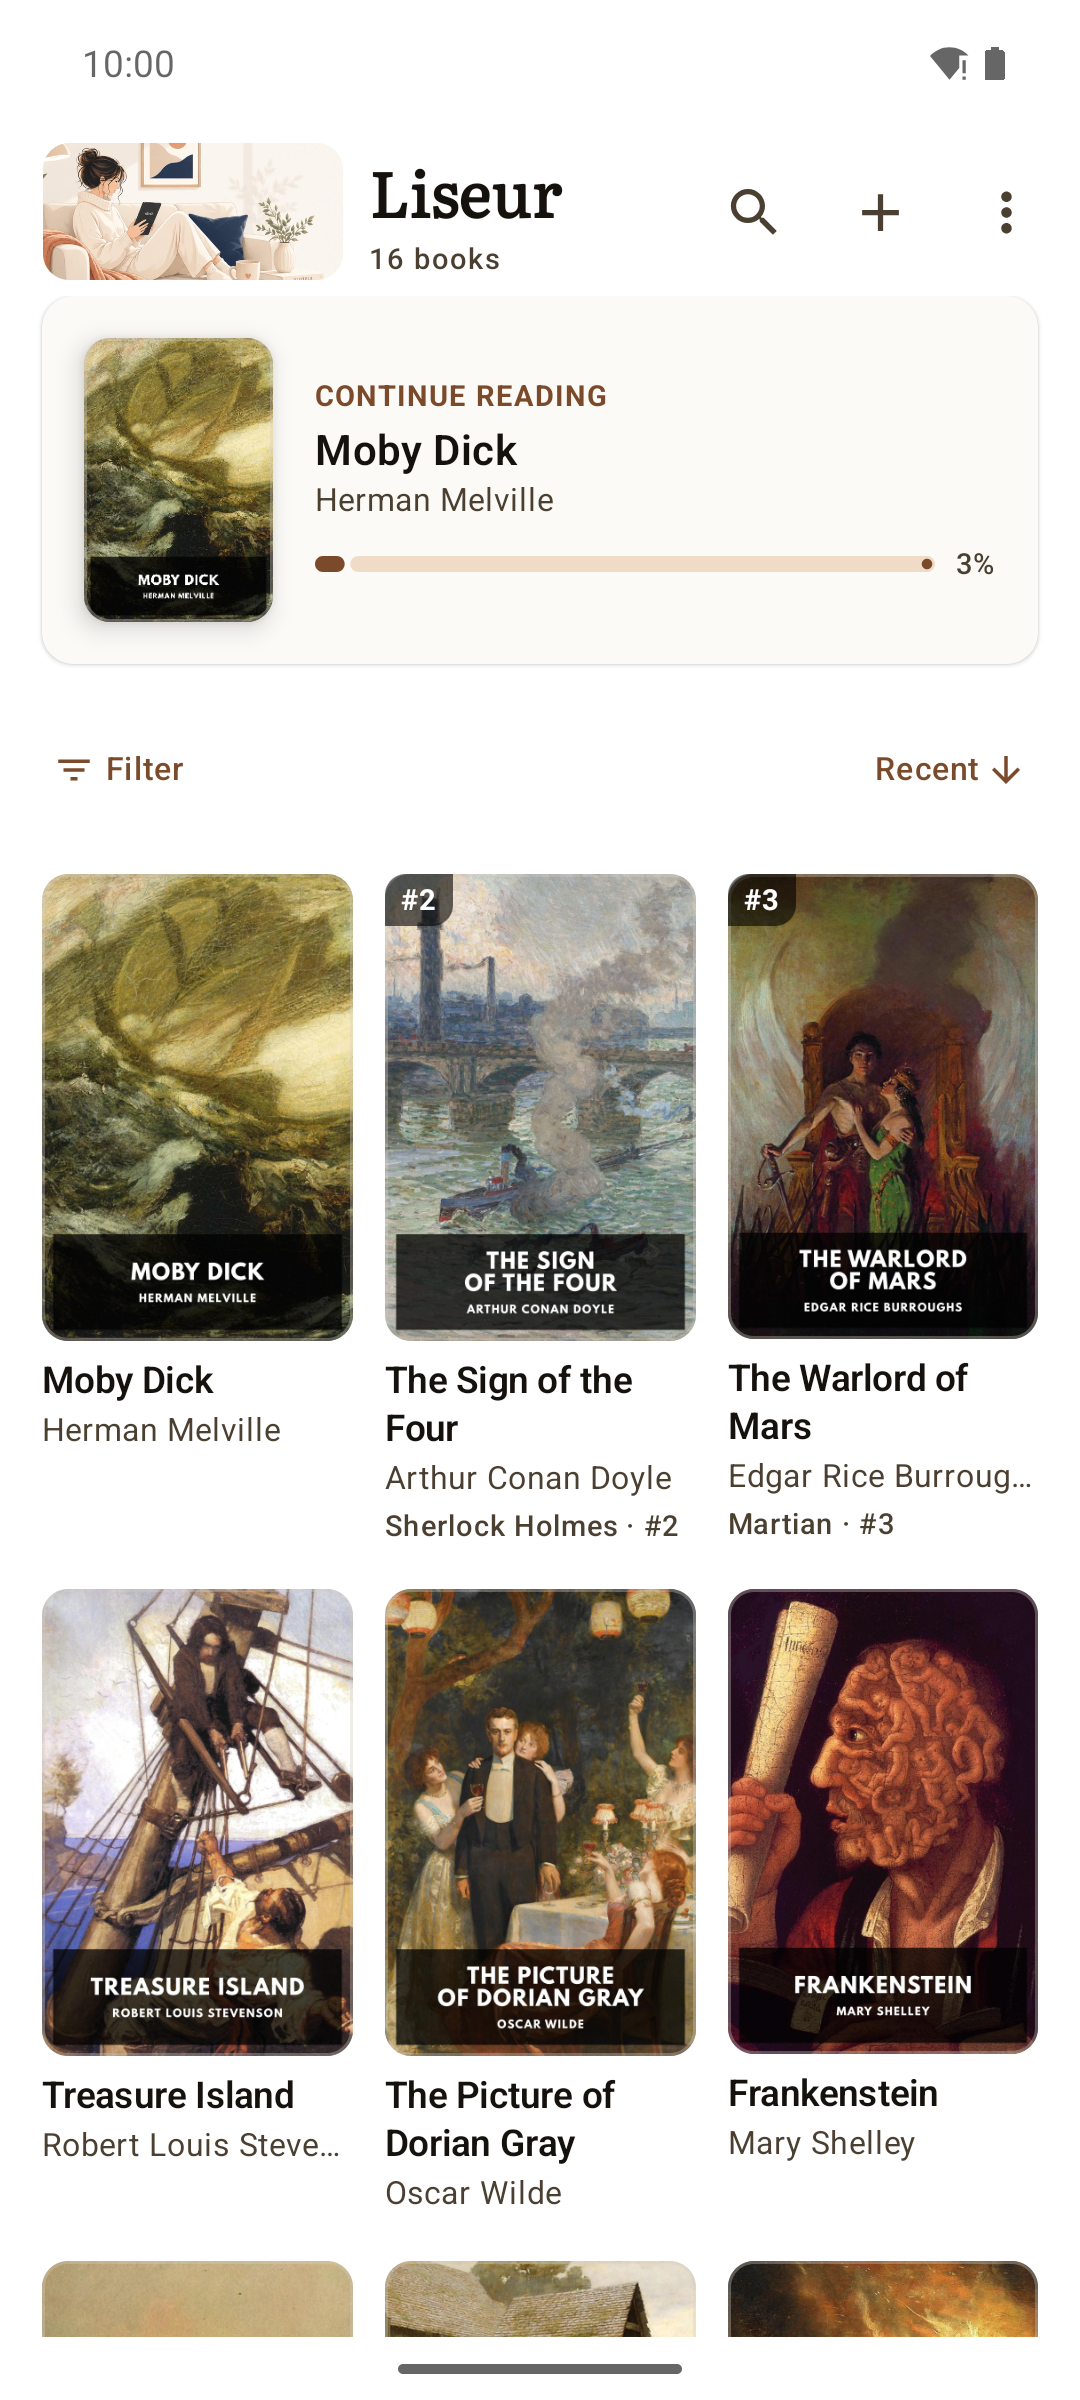
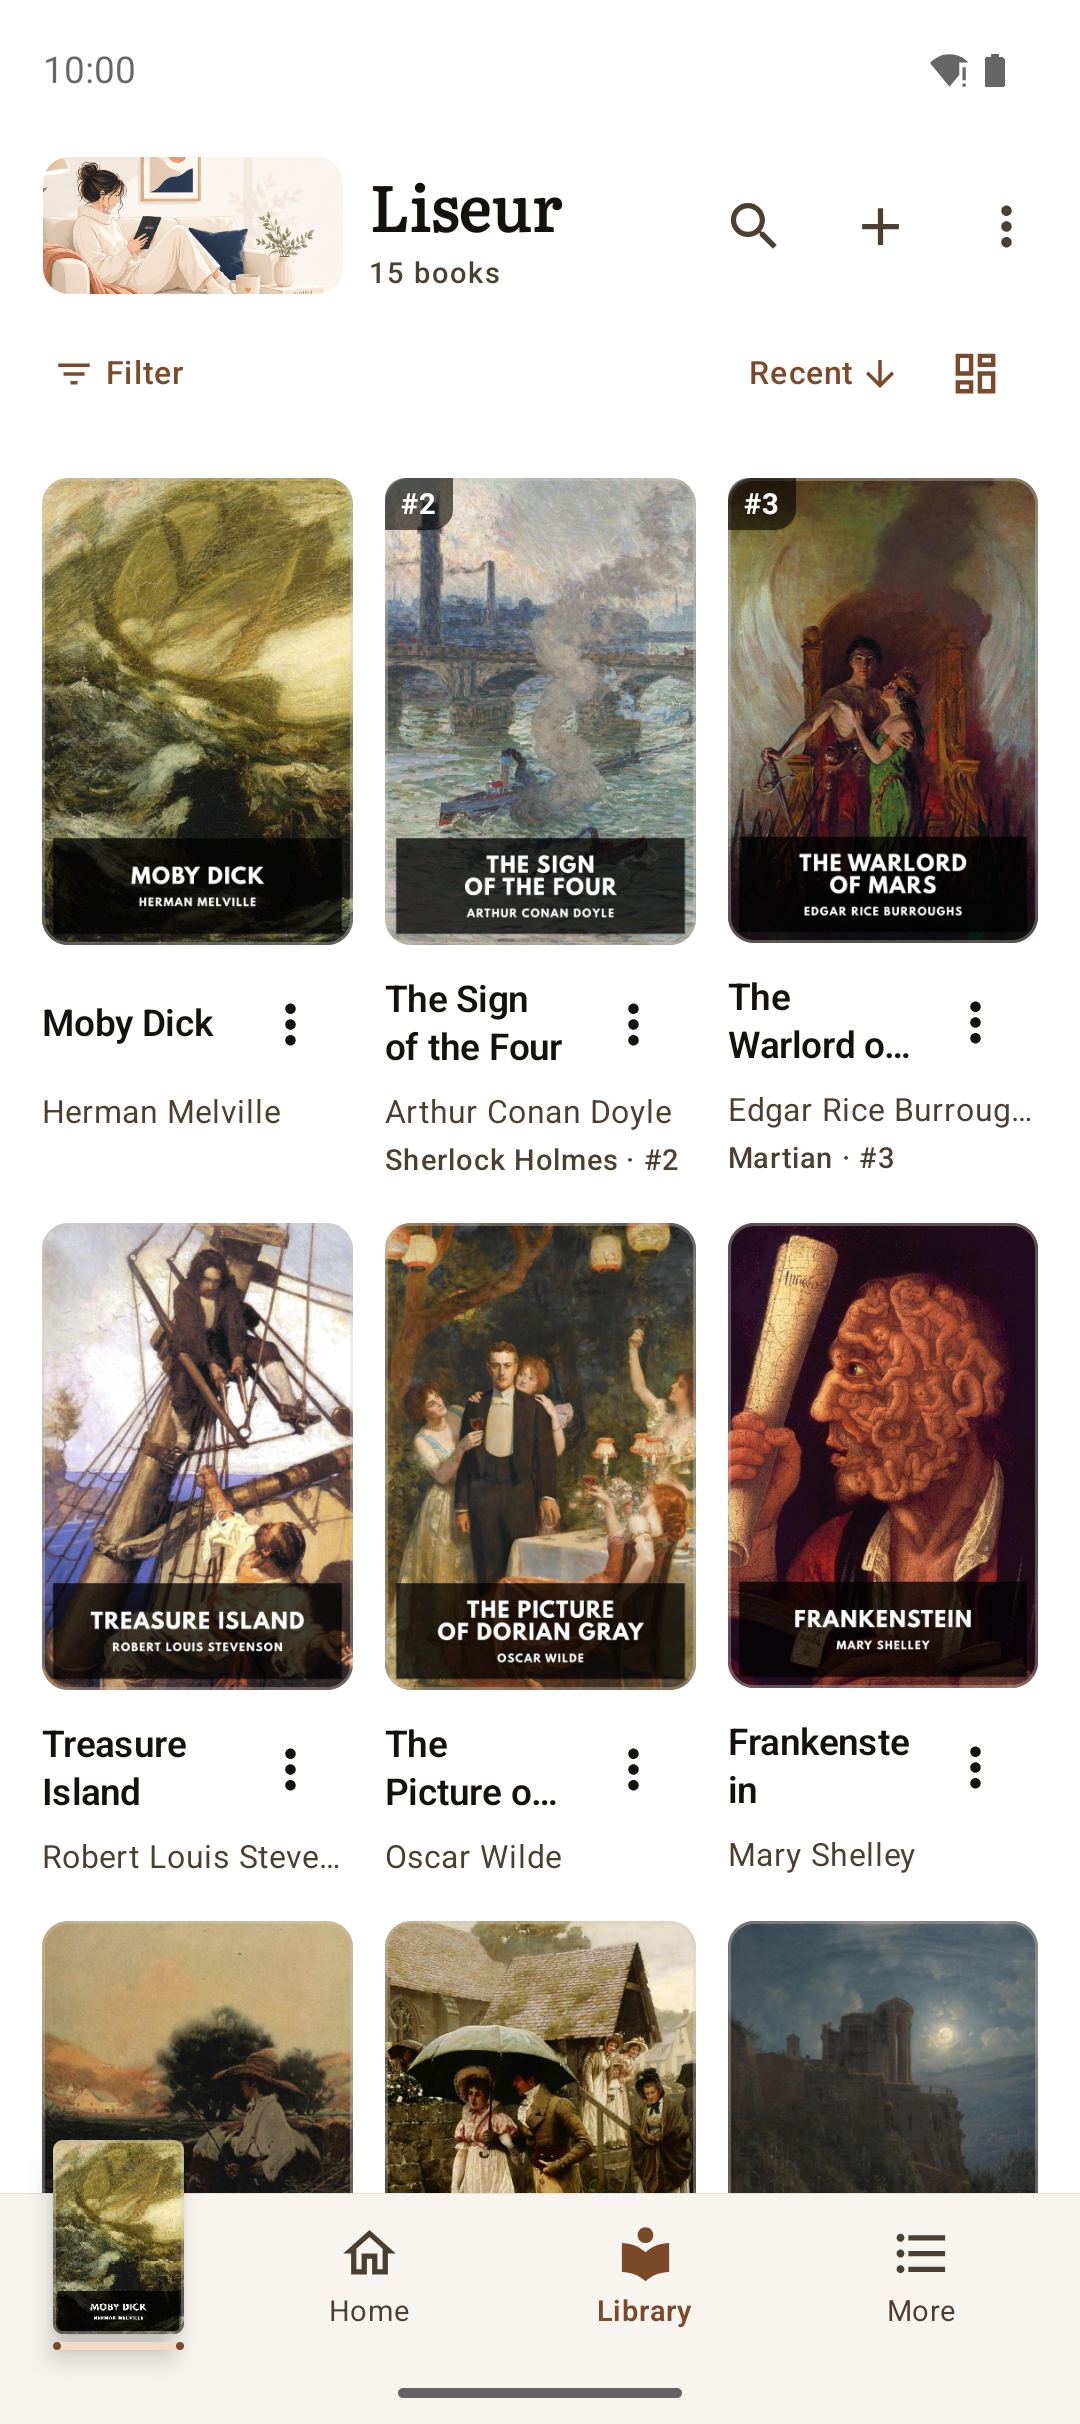
refactor: Make library bottom bar always enabled by default
Removed the upgrade migration logic for the library bottom bar and
configured it to be enabled by default for all users. Also updated the
device automation helper script to scroll and locate switches reliably
within settings menus.

diff --git a/app/src/main/kotlin/com/chmouel/liseur/data/settings/AppSettings.kt b/app/src/main/kotlin/com/chmouel/liseur/data/settings/AppSettings.kt
@@ -1,7 +1,6 @@
 package com.chmouel.liseur.data.settings
 
 import android.content.Context
-import androidx.datastore.core.DataMigration
 import androidx.datastore.core.DataStore
 import androidx.datastore.preferences.core.MutablePreferences
 import androidx.datastore.preferences.core.Preferences
@@ -481,31 +480,8 @@ enum class CompanionDetail(val id: String) {
 
 private val Context.appSettingsStore: DataStore<Preferences> by preferencesDataStore(
     name = "app_settings",
-    produceMigrations = { context ->
-        listOf(
-            LegacySpeechServerMigration(serverNamer(context)),
-            LibraryBottomBarUpgradeMigration { context.getDatabasePath("liseur.db").exists() },
-        )
-    },
+    produceMigrations = { context -> listOf(LegacySpeechServerMigration(serverNamer(context))) },
 )
-
-/**
- * Keeps the top hero card on an existing install when upgrading to a
- * build that turns the bottom bar on by default for new installs.
- */
-internal class LibraryBottomBarUpgradeMigration(
-    private val hasExistingLibrary: () -> Boolean = { false },
-) : DataMigration<Preferences> {
-    private val key = booleanPreferencesKey("library_bottom_bar")
-
-    override suspend fun shouldMigrate(currentData: Preferences): Boolean =
-        key !in currentData && (currentData.asMap().isNotEmpty() || hasExistingLibrary())
-
-    override suspend fun migrate(currentData: Preferences): Preferences =
-        currentData.toMutablePreferences().also { it[key] = false }.toPreferences()
-
-    override suspend fun cleanUp() = Unit
-}
 
 /** A new server's name: the hosted service it is on, or its host. */
 internal fun serverNamer(context: Context): (String) -> String = { url ->
@@ -658,8 +634,7 @@ class AppSettingsRepository(
                 shelfBackdropUri = p[Keys.LIBRARY_SHELF_BACKDROP_URI],
                 shelfTone = ShelfTone.fromId(p[Keys.LIBRARY_SHELF_TONE]),
                 compactList = p[Keys.LIBRARY_COMPACT_LIST] ?: false,
-                bottomBar = p[Keys.LIBRARY_BOTTOM_BAR]
-                    ?: (p.asMap().keys.none { it != Keys.LIBRARY_BOTTOM_BAR }),
+                bottomBar = p[Keys.LIBRARY_BOTTOM_BAR] ?: true,
             ),
             eInkMode = EInkMode.fromId(p[Keys.EINK_MODE]),
             colorEInk = p[Keys.COLOR_EINK] ?: false,

diff --git a/app/src/test/kotlin/com/chmouel/liseur/data/settings/AppSettingsRepositoryTest.kt b/app/src/test/kotlin/com/chmouel/liseur/data/settings/AppSettingsRepositoryTest.kt
@@ -5,6 +5,7 @@ import androidx.datastore.preferences.core.booleanPreferencesKey
 import androidx.datastore.preferences.core.edit
 import androidx.datastore.preferences.core.intPreferencesKey
 import androidx.datastore.preferences.core.stringPreferencesKey
+import com.chmouel.liseur.domain.LibraryLayout
 import com.chmouel.liseur.reader.dictionary.ALT_LANGUAGE_OFF
 import com.chmouel.liseur.reader.annotations.SelectionAction
 import com.chmouel.liseur.reader.annotations.SelectionActionIcon
@@ -338,36 +339,15 @@ class AppSettingsRepositoryTest {
     }
 
     @Test
-    fun `bottom bar is on by default on a fresh install`() = runTest {
+    fun `bottom bar is on by default`() = runTest {
         val store = store()
-        val migration = LibraryBottomBarUpgradeMigration { false }
-        assertFalse(migration.shouldMigrate(store.data.first()))
-
         val repo = AppSettingsRepository(store)
         assertTrue(repo.settings.first().libraryLayout.bottomBar)
-    }
 
-    @Test
-    fun `bottom bar stays off when upgrading an existing install`() = runTest {
-        val store = store()
         store.edit { it[stringPreferencesKey("theme_mode")] = "DARK" }
+        assertTrue(repo.settings.first().libraryLayout.bottomBar)
 
-        val migration = LibraryBottomBarUpgradeMigration { false }
-        assertTrue(migration.shouldMigrate(store.data.first()))
-        store.updateData { migration.migrate(it) }
-
-        val repo = AppSettingsRepository(store)
-        assertFalse(repo.settings.first().libraryLayout.bottomBar)
-    }
-
-    @Test
-    fun `bottom bar stays off when upgrading an install that already had a library database`() = runTest {
-        val store = store()
-        val migration = LibraryBottomBarUpgradeMigration { true }
-        assertTrue(migration.shouldMigrate(store.data.first()))
-        store.updateData { migration.migrate(it) }
-
-        val repo = AppSettingsRepository(store)
+        repo.setLibraryLayout(LibraryLayout(bottomBar = false))
         assertFalse(repo.settings.first().libraryLayout.bottomBar)
     }
 }

diff --git a/docs/adr/0070-library-styles-are-fixed-layouts.md b/docs/adr/0070-library-styles-are-fixed-layouts.md
@@ -24,11 +24,10 @@ Shelves and List.
 Each is a fixed layout with at most a few options of its own:
 any style can choose between a top card for the current book and a
 bottom bar with the current book's cover on the left and Home, Library
-and More tabs beside it (the bottom bar is the default on new installs,
-and upgrades keep the top card unless changed); Shelves chooses series,
-author or reading state for its shelves, a shelf colour (theme accent,
-stone, oak, walnut or brass) and a backdrop behind them (plain, wood,
-plaster, bricks or a custom image); and List can use compact rows.
+and More tabs beside it (the bottom bar is the default); Shelves chooses
+series, author or reading state for its shelves, a shelf colour (theme
+accent, stone, oak, walnut or brass) and a backdrop behind them (plain,
+wood, plaster, bricks or a custom image); and List can use compact rows.
 Nothing is reorderable.
 
 Only the library screen changes. Every style keeps the same book
